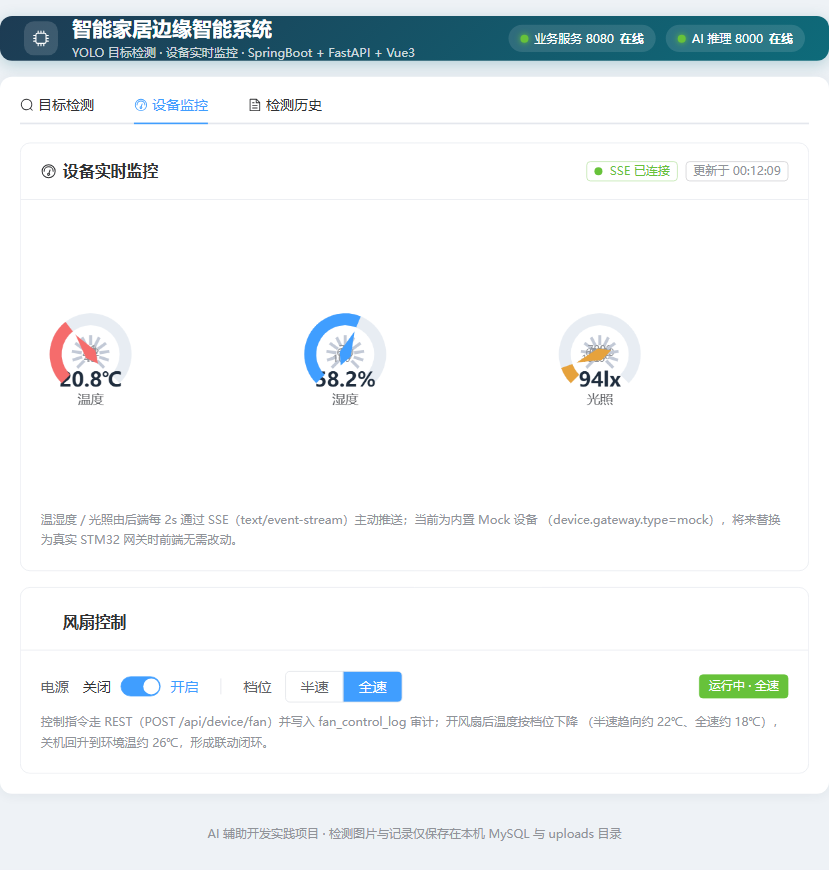
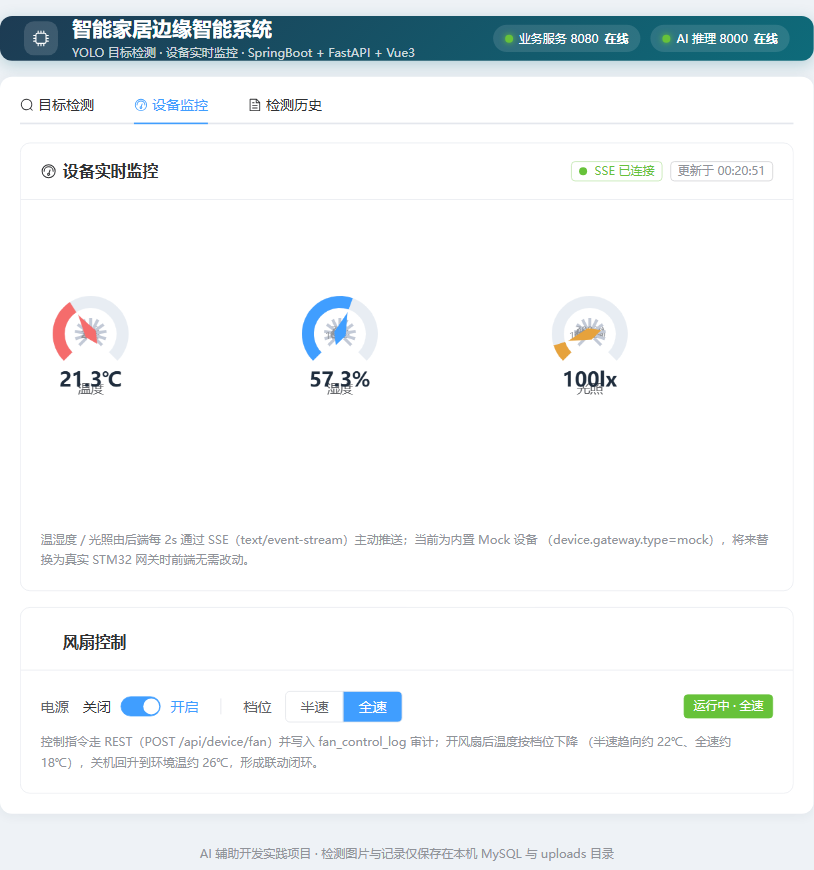
fix(device): 仪表盘三层分离布局与风扇 3s 热惯性延迟
1.前端：弧与指针上移，数值/标题下移到弧下方三层不重叠（容器300px）；2.后端：切换风扇只挂起目标、3s后才生效（前3s温湿度不变），温度/湿度逼近系数统一调到0.03；3.光照去除随机噪声只按时刻，切换风扇保持稳定；4.重拍截图05/06并同步PROJECT_CONTEXT。

diff --git a/web/src/components/DevicePanel.vue b/web/src/components/DevicePanel.vue
@@ -24,8 +24,8 @@ function gaugeOption(value, name, unit, min, max, color, decimals) {
         type: 'gauge',
         min,
         max,
-        radius: '82%',
-        center: ['50%', '48%'],
+        radius: '76%',
+        center: ['50%', '38%'],
         progress: { show: true, width: 12, itemStyle: { color } },
         axisLine: { lineStyle: { width: 12, color: [[1, '#e8edf3']] } },
         axisTick: { show: false },
@@ -37,10 +37,10 @@ function gaugeOption(value, name, unit, min, max, color, decimals) {
           valueAnimation: true,
           color: '#1f2d3d',
           fontSize: 20,
-          offsetCenter: [0, '66%'],
+          offsetCenter: [0, '124%'],
           formatter: (v) => `${decimals ? Number(v).toFixed(decimals) : Math.round(v)}${unit}`,
         },
-        title: { offsetCenter: [0, '112%'], color: '#606266', fontSize: 13 },
+        title: { offsetCenter: [0, '162%'], color: '#606266', fontSize: 13 },
         data: [{ value: value ?? 0, name }],
       },
     ],
@@ -251,7 +251,7 @@ onUnmounted(() => {
 }
 .chart {
   width: 100%;
-  height: 280px;
+  height: 300px;
 }
 .fan-row {
   display: flex;

diff --git a/server/src/main/java/com/smarthome/device/MockDeviceGateway.java b/server/src/main/java/com/smarthome/device/MockDeviceGateway.java
@@ -13,8 +13,9 @@ import java.util.concurrent.atomic.AtomicReference;
 /**
  * 内置模拟设备网关：在没有 STM32 硬件时，用内存物理模型模拟一台客厅设备。
  * 每 2s 推进一次温湿度/光照，并响应风扇控制，形成「开风扇 → 温度按档位下降」的闭环：
- * 关机温度趋向环境 26℃，半速趋向 22℃，全速趋向 18℃；湿度随温度反向小幅变化；
- * 光照按昼夜变化（仅展示，不参与风扇联动）。
+ * 关机温度趋向环境 26℃，半速趋向 22℃，全速趋向 18℃；切换风扇后有 3s 热惯性延迟
+ * （前 3s 温湿度完全不变），之后以每 2s 逼近 3% 的速度缓慢变化；湿度随温度反向缓变；
+ * 光照只按当地时刻变化、不加噪声（不参与风扇联动，切换风扇时光照保持稳定）。
  *
  * 线程安全：{@link #tick()} 跑在调度线程池、{@link #controlFan} 跑在 Tomcat 请求线程，
  * 用 AtomicReference 持有状态，保证一写多读的可见性与安全。
@@ -41,6 +42,10 @@ public class MockDeviceGateway implements DeviceGateway {
         double light;
         boolean fanPower;
         int fanSpeed;
+        double targetTemp;      // 当前正在逼近的目标温度（℃）
+        double pendingTarget;   // 切换风扇后待生效的目标温度
+        long switchAt;          // 待生效目标的生效时刻（毫秒）
+        boolean hasPending;     // 是否存在尚未生效的目标（热惯性延迟中）
 
         State(double temperature, double humidity, double light, boolean fanPower, int fanSpeed) {
             this.temperature = temperature;
@@ -48,6 +53,8 @@ public class MockDeviceGateway implements DeviceGateway {
             this.light = light;
             this.fanPower = fanPower;
             this.fanSpeed = fanSpeed;
+            this.targetTemp = ENV_TEMP;
+            this.hasPending = false;
         }
     }
 
@@ -67,22 +74,32 @@ public class MockDeviceGateway implements DeviceGateway {
     }
 
     private State evolve(State s) {
+        long now = System.currentTimeMillis();
+
+        // 切换风扇后的热惯性延迟：前 3s 温湿度 / 光照完全保持不变
+        if (s.hasPending && now < s.switchAt) {
+            return s;
+        }
+        // 延迟结束，待生效目标转为当前目标
+        if (s.hasPending) {
+            s.targetTemp = s.pendingTarget;
+            s.hasPending = false;
+        }
+
         ThreadLocalRandom random = ThreadLocalRandom.current();
 
-        // 温度：向当前档位目标值缓慢指数逼近（每 2s 逼近 5%，约分钟级趋稳，贴近真实降温节奏）+ 小幅噪声
-        double targetTemp = s.fanPower ? (s.fanSpeed == 2 ? FULL_TEMP : HALF_TEMP) : ENV_TEMP;
-        s.temperature = round1(s.temperature + (targetTemp - s.temperature) * 0.05
+        // 温度：向当前目标缓慢指数逼近（每 2s 逼近 3%，约分钟级趋稳）+ 小幅噪声
+        s.temperature = round1(s.temperature + (s.targetTemp - s.temperature) * 0.03
                 + (random.nextDouble() - 0.5) * 0.10);
 
         // 湿度：随温度反向缓慢变化（降温略增湿），钳制 30~90%
         double targetHumidity = 55.0 + (ENV_TEMP - s.temperature) * 1.5;
-        double rawHumidity = s.humidity + (targetHumidity - s.humidity) * 0.04
+        double rawHumidity = s.humidity + (targetHumidity - s.humidity) * 0.03
                 + (random.nextDouble() - 0.5) * 0.6;
         s.humidity = clampDouble(rawHumidity, 30.0, 90.0);
 
-        // 光照：昼夜曲线 + 小幅噪声，仅展示
-        double rawLight = lightNow() + (random.nextDouble() - 0.5) * 16;
-        s.light = clampLong(rawLight, 0.0, 1000.0);
+        // 光照：只按当地时刻，不加随机噪声，短时间内保持稳定（不随风扇变化）
+        s.light = clampLong(lightNow(), 0.0, 1000.0);
         return s;
     }
 
@@ -115,6 +132,15 @@ public class MockDeviceGateway implements DeviceGateway {
         state.updateAndGet(s -> {
             s.fanPower = power;
             s.fanSpeed = power ? speed : 0;   // 关机强制档位归零
+            // 计算新目标温度，挂起 3s 再生效（模拟热惯性：刚切换时温湿度不变）
+            double newTarget = power ? (speed == 2 ? FULL_TEMP : HALF_TEMP) : ENV_TEMP;
+            if (newTarget == s.targetTemp) {
+                s.hasPending = false;          // 回到当前已生效目标，取消挂起
+            } else {
+                s.pendingTarget = newTarget;
+                s.switchAt = System.currentTimeMillis() + 3000;
+                s.hasPending = true;
+            }
             return s;
         });
         return snapshot();
